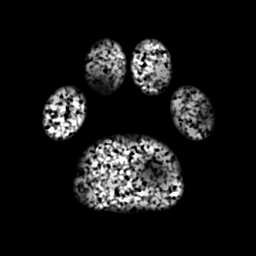
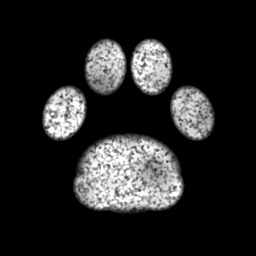
final: なぞの あしあと — 粉と紫の光で見えない足あとを追う写実の台所
Claude-Session: https://claude.ai/code/session_017tygc39dL8Ju8fzNvhLDhJ

Changed region(s): [[0.2812, 0.5, 0.7188, 0.8438], [0.1562, 0.1562, 0.6875, 0.5625], [0.6562, 0.3125, 0.8438, 0.5625]]

diff --git a/games/261127-51/js/game.js b/games/261127-51/js/game.js
@@ -163,7 +163,7 @@ function buildProps() {
   const baseM = innerM.clone(); baseM.side = T.FrontSide; baseM.opacity = 0.35; baseM.color.set(0x0a0d0c); baseM.envMapIntensity = 0.35;
   const base = new T.Mesh(new T.CylinderGeometry(0.078, 0.07, 0.012, 64), baseM);
   base.position.y = 0.006;
-  jar.add(base, inner, outer);
+  jar.add(inner, outer);
   // crumbs inside and spilled
   const crumbM = new T.MeshStandardMaterial({ color: 0xb58a55, roughness: 0.85 });
   for (let i = 0; i < 26; i++) {
@@ -958,13 +958,13 @@ function startPlay() {
 }
 function setupTray() {
   P0.tray.visible = true;
-  P0.tray.position.set(1.98, 0, -0.62); P0.tray.rotation.y = 0.35;
+  P0.tray.position.set(2.2, 0, -0.8); P0.tray.rotation.y = -0.66;
   P0.toolItems = [];
   const mk = (kind, x) => {
     let o;
     if (kind === 'flash') { o = A.hand.tools.flash.clone(); o.traverse((c) => { if (c.isSpotLight) c.intensity = 0; }); o.rotation.set(0, 0.4, 0); o.position.set(x, 0.03, 0.02); o.children.forEach((c) => { if (c.material && c.material.blending === T.AdditiveBlending) c.visible = false; }); }
     else { o = P0.pots[kind].clone(); o.position.set(x, 0.016, 0); }
-    o.userData.tool = kind;
+    o.visible = true; o.userData.tool = kind;
     P0.tray.add(o); P0.toolItems.push(o);
     return o;
   };
@@ -1022,6 +1022,8 @@ function dogRun() {
   d.target = { x: p.x, z: p.z, done: () => { d.do('yip', 0.4); } };
 }
 function updatePlay(dt) {
+  // keep the tool tray in the lower left of the view whatever the screen shape
+  { const r = new T.Raycaster(); r.setFromCamera(new T.Vector2(-0.5, -0.62), camera); const t = -r.ray.origin.y / r.ray.direction.y; if (t > 0) { const p = r.ray.origin.clone().addScaledVector(r.ray.direction, t); P0.tray.position.lerp(V3(p.x, 0, p.z), 1 - Math.exp(-dt * 6)); } }
   // flat hand follows the touch and presses down
   if (G.tool !== 'flash') {
     if (G.stampAt) {
@@ -1029,7 +1031,7 @@ function updatePlay(dt) {
       const lift = ptr.down ? Math.max(0, 0.06 * (1 - Math.min(1, G.stampAnim * 2.5)) ** 2) : 0.08;
       A.hand.aimFlat(G.stampAt.p, G.stampAt.n, lift, dt);
     } else {
-      const p = camera.position.clone().lerp(cam.look, 0.45); p.y = 0; A.hand.aimFlat(p, V3(0, 1, 0), 0.18, dt);
+      const r = new T.Raycaster(); r.setFromCamera(new T.Vector2(0.3, -0.45), camera); const tt = -r.ray.origin.y / r.ray.direction.y; const p = r.ray.origin.clone().addScaledVector(r.ray.direction, Math.max(0.3, tt)); p.y = 0; A.hand.aimFlat(p, V3(0, 1, 0), 0.1, dt);
     }
     UVL.on.value = damp(UVL.on.value, 0, 10, dt); S.hum(false);
   } else {
@@ -1158,7 +1160,7 @@ export function debugGo(name) {
     }
     // a broad brushed haze band
     for (let j = 0; j < 60; j++) P0.tile.paint.stamp(0.25 + j * 0.006, 0.28 + Math.sin(j * 0.3) * 0.03, 0.02, 0.03, 0, 0.05, 0);
-    shot([-0.52, 1.13, -1.62], [-0.6, 1.04, -2.3], { snap: true, ap: 1.4 });
+    shot([-0.73, 1.12, -1.58], [-0.77, 1.03, -2.3], { snap: true, ap: 1.4 });
     G.camLock = true;
     G.thumb = true;
   }

diff --git a/games/261127-51/js/paint.js b/games/261127-51/js/paint.js
@@ -183,11 +183,11 @@ function latentMat(maskName, paint) {
         float g = pgr(floor(vMUv * 700.0));
         float alpha = clamp(edge * vis * (0.8 + 0.3 * g), 0.0, 1.0);
         if (alpha < 0.01) discard;
-        vec3 pcol = mix(vec3(0.03, 0.03, 0.03), vec3(0.85, 0.63, 0.3) * (0.75 + 0.5 * g), gold);
+        vec3 pcol = mix(vec3(0.03, 0.03, 0.03), vec3(0.78, 0.52, 0.2) * (0.75 + 0.5 * g), gold);
         diffuseColor = vec4(pcol, alpha);`)
       .replace('#include <normal_fragment_maps>', `
         normal = bumpN(normal, alpha, 0.25);`)
-      .replace('#include <roughnessmap_fragment>', '#include <roughnessmap_fragment>\nroughnessFactor = mix(0.88, 0.35, gold);')
+      .replace('#include <roughnessmap_fragment>', '#include <roughnessmap_fragment>\nroughnessFactor = mix(0.88, 0.42, gold);')
       .replace('#include <metalnessmap_fragment>', '#include <metalnessmap_fragment>\nmetalnessFactor = gold * 0.95;');
   };
   m.customProgramCacheKey = () => 'latent';
@@ -274,8 +274,8 @@ export class DecalSet {
           vec3 L = vWP - uUVPos; float dl = length(L);
           float spot = smoothstep(uUVCos, mix(uUVCos, 1.0, 0.45), dot(L / dl, uUVDir)) * uUVOn / (1.0 + dl * dl * 0.25);
           float rr = length(vMUv - 0.5) * 2.0;
-          float glow = smoothstep(0.08, 0.5, mask) * (spot * 2.2 + vRev * 0.45) * vAmt;
-          float halo = exp(-rr * rr * 6.0) * (spot * 0.5 + vRev * 0.12) * vAmt;
+          float glow = smoothstep(0.08, 0.5, mask) * (spot * 2.2 + vRev * 0.75) * vAmt;
+          float halo = exp(-rr * rr * 6.0) * (spot * 0.5 + vRev * 0.2) * vAmt;
           if (glow + halo < 0.004) discard;
           diffuseColor = vec4(0.0, 0.0, 0.0, clamp(glow * 0.7 + halo * 0.5, 0.0, 0.92));`)
         .replace('#include <normal_fragment_maps>', kind === 0 ? `

diff --git a/games/261127-51/tools/gen_prints.py b/games/261127-51/tools/gen_prints.py
@@ -75,8 +75,8 @@ def paw():
     for cx, cy, rot in ((-0.5, -0.12, 0.4), (-0.18, -0.48, 0.1), (0.18, -0.48, -0.1), (0.5, -0.12, -0.4)):
         d = np.minimum(d, pad(x, y, cx, cy, 0.17, 0.23, rot))
     m = np.clip((1 - d) / 0.35, 0, 1)
-    tex = np.clip(0.65 + noise(n, 50, 4) * 0.35, 0, 1)  # pad skin papillae
-    m = m * tex * np.clip(0.8 + noise(n, 6, 5) * 0.3, 0, 1)
+    tex = np.clip(0.85 + noise(n, 60, 4) * 0.2, 0, 1)  # pad skin papillae
+    m = m * tex * np.clip(0.9 + noise(n, 6, 5) * 0.15, 0, 1)
     save('paw', m)
 
 

diff --git a/games/261127-51/NOTES.md b/games/261127-51/NOTES.md
@@ -28,3 +28,7 @@
 - iPhone で 30fps を保つため、フレーム時間を見て描画解像度を自動で下げる。
 - 音はすべて WebAudio で合成（刷毛のこすれ、粉のぽふっ、発見のチャイム、ライトのうなり、くしゃみ、子犬の声、雨上がりのしずく）。
 - `tools/` に生成スクリプト（gen_textures.py / gen_meshes.py / gen_prints.py）を残した。
+- 確認方法: Playwright（ソフトウェア描画）で実際のタップ・なぞり操作による通しプレイを自動化し、導入→場面1→2（パパの後片付け含む）→3→手渡し→自由遊びまで進むことを確認。iPhone 縦横・iPad 縦横で各場面を撮って構図を直した。
+- 直したこと（見直しで見つけた点）: ガラスびんの底が窓を映して白く光る（回転体の底面の法線）→底面を外した／粉が薄すぎて見えない→付着量と「もや→くっきり」の曲線を強化／UV の跡が点にしか見えない→跡を大きく・にじみ光を追加／テーブル・パパ・女の子がカメラをふさぐ→配置とカメラを調整／床の粉がパパの足に隠れて払えない→低い位置の払いは床にも効くように、全体も少しずつ落ちるように／帽子を早くタップすると反応しない→いつでも反応。
+- 残る課題: 人物の顔は簡素（意図的に引き・後ろ姿で見せている）。実機 iPhone での fps は未計測のため、自動の解像度調整に頼っている。
+- URL に `?go=s1` などを付けると場面へ直接飛べる（確認用）。
